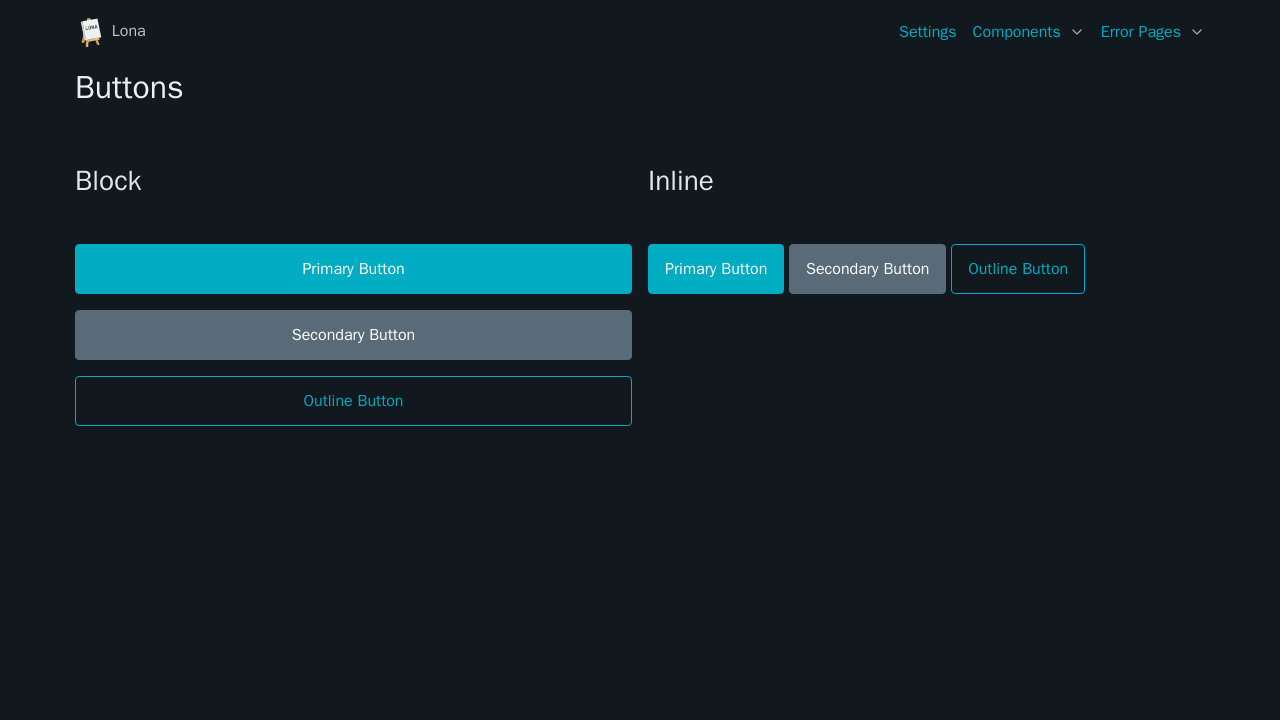
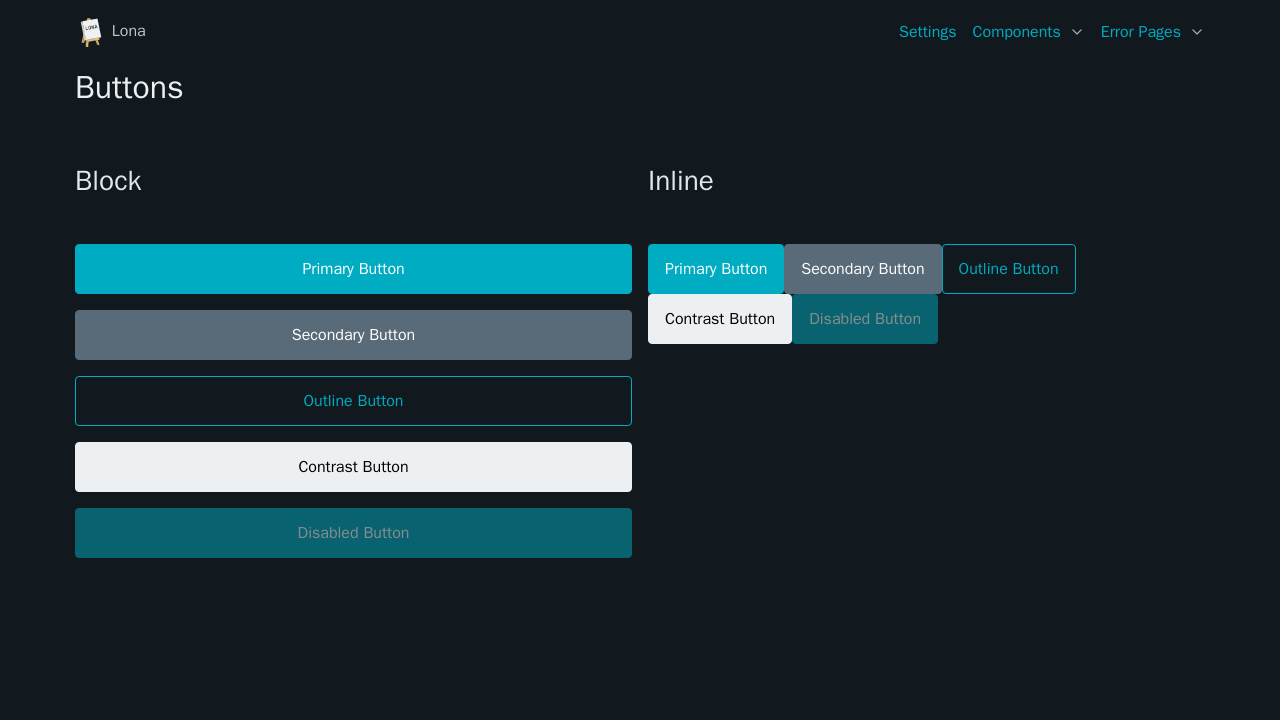
components: button: add support for contrast and disabled

Changed region(s): [[0.0312, 0.6111, 0.5, 0.7944], [0.5, 0.3361, 0.8438, 0.4889]]

diff --git a/lona_picocss/html/buttons.py b/lona_picocss/html/buttons.py
@@ -4,15 +4,24 @@ from lona_picocss.html.base import PicocssNode
 
 
 class _Button(PicocssNode, Node):
-    # TODO: add support for .contrast
-
     EVENTS = [CLICK]
 
-    def __init__(self, *args, secondary=False, outline=False, **kwargs):
+    def __init__(
+            self,
+            *args,
+            secondary=False,
+            outline=False,
+            contrast=False,
+            disabled=False,
+            **kwargs,
+    ):
+
         super().__init__(*args, **kwargs)
 
         self.secondary = secondary
         self.outline = outline
+        self.contrast = contrast
+        self.disabled = disabled
 
     # secondary
     @property
@@ -39,6 +48,32 @@ class _Button(PicocssNode, Node):
 
         else:
             self.class_list.remove('outline')
+
+    # contrast
+    @property
+    def contrast(self):
+        return 'contrast' in self.class_list
+
+    @contrast.setter
+    def contrast(self, new_value):
+        if new_value:
+            self.class_list.add('contrast')
+
+        else:
+            self.class_list.remove('contrast')
+
+    # disabled
+    @property
+    def disabled(self):
+        return 'disabled' in self.attributes
+
+    @disabled.setter
+    def disabled(self, new_value):
+        if new_value:
+            self.attributes['disabled'] = ''
+
+        else:
+            del self.attributes['disabled']
 
 
 class Button(_Button):

diff --git a/lona_picocss/views/components/buttons.py b/lona_picocss/views/components/buttons.py
@@ -16,6 +16,8 @@ class ButtonsView(View):
                     Button('Primary Button'),
                     Button('Secondary Button', secondary=True),
                     Button('Outline Button', outline=True),
+                    Button('Contrast Button', contrast=True),
+                    Button('Disabled Button', disabled=True),
                 ),
                 Div(
                     H2('Inline'),
@@ -24,6 +26,10 @@ class ButtonsView(View):
                     InlineButton('Secondary Button', secondary=True),
                     ' ',
                     InlineButton('Outline Button', outline=True),
+                    ' ',
+                    InlineButton('Contrast Button', contrast=True),
+                    ' ',
+                    InlineButton('Disabled Button', disabled=True),
                 ),
             ),
         )

diff --git a/doc/components/buttons.md b/doc/components/buttons.md
@@ -32,6 +32,8 @@ app.run()
 | - | - | - |
 | secondary | bool | Secondary styling |
 | outline | bool | Outline styling |
+| contrast | bool | Contrast styling |
+| disabled | bool | Disable Button |
 
 
 ## Properties
@@ -40,3 +42,5 @@ app.run()
 | - | - | - |
 | secondary | bool | Secondary styling |
 | outline | bool | Outline styling |
+| contrast | bool | Contrast styling |
+| disabled | bool | Disable Button |
